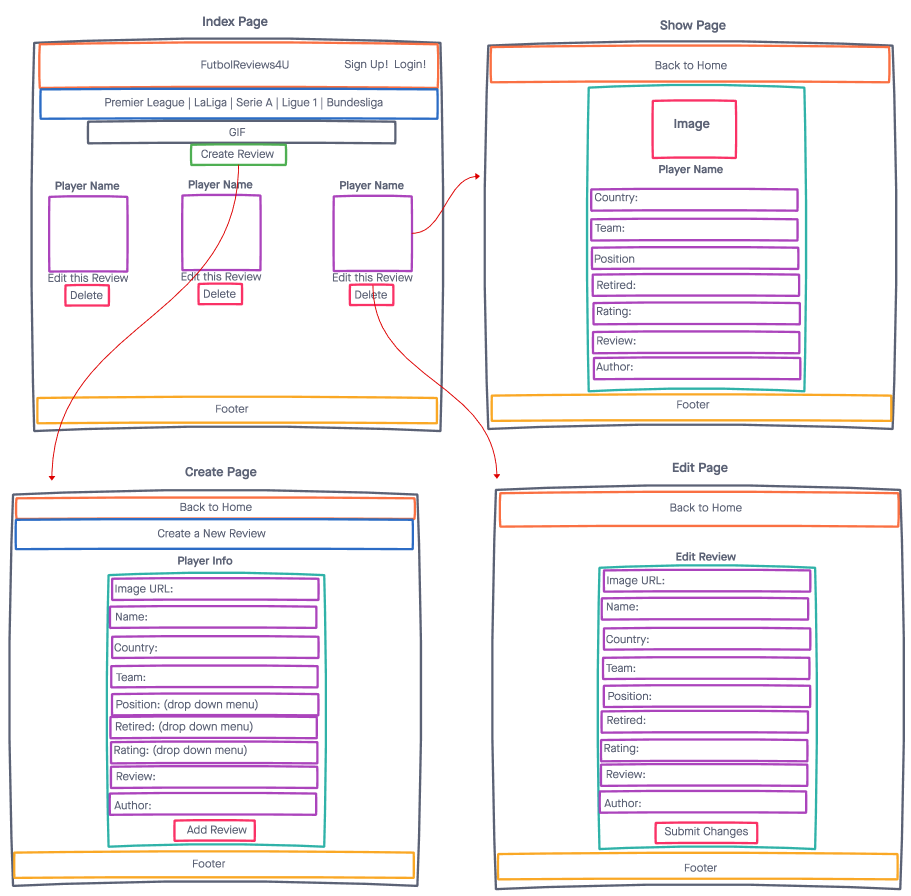
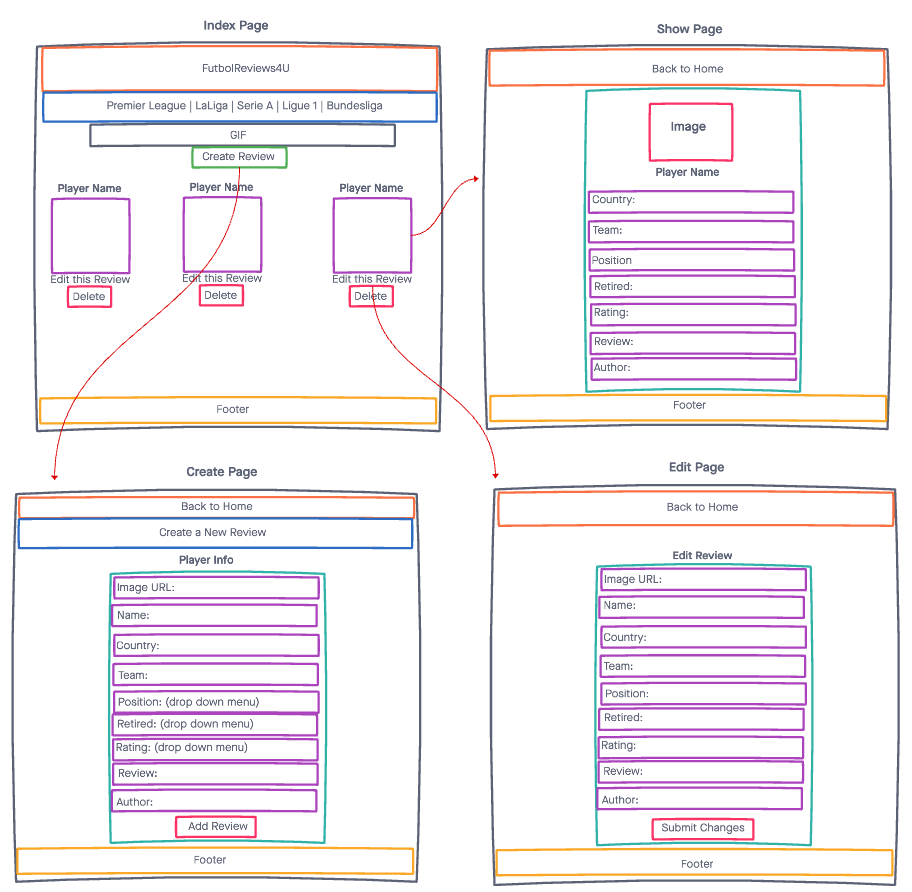
Final

diff --git a/public/style.css b/public/style.css
@@ -6,15 +6,13 @@
 * {
     cursor: url("https://i.imgur.com/lBJM4e1.png"), auto;
     background-color: #8ee4af;;
-    
+    box-sizing: border-box;
 }
-
 
 /* INDEX */
 #soccerballgif {
     width: 100px;
     height: auto;
-    box-sizing: border-box;
 }
 
 header {
@@ -101,14 +99,59 @@ nav li a:hover {
     background-color: #edf5e1 ;
 }
 
-/* SHOW */
-#show-main {
-    text-align: center;
-    padding-top: 20px;
-}
+
 
 /* CREATE */
 /* check other css file */
+.container-new {
+    width: 50vw;
+    height: 58vw;
+    margin: 50px auto;
+    display: flex;
+    border-radius: 10px;
+    box-shadow: 1px 1px 10px #ddd,
+                -1px -1px 10px #ddd,
+                1px -1px 10px #ddd,
+                -1px 1px 10px #ddd;
+    justify-content: center;
+    overflow-y: scroll;
+  }
+
+  fieldset {
+    border: 1px solid black;
+    border-radius: 5px;
+    padding: 20px;
+    margin: 20px 0;
+    text-align: center;
+  }
+
+  legend {
+    padding: 0px 10px;
+    font-family: sans-serif;
+    font-weight: 500;
+    color: #05386b;
+  }
+  label {
+    font-family: sans-serif;
+    font-weight: 200;
+    color: grey;
+    display: block;
+    padding-top: 10px;
+  }
+  
+  input {
+    width: 100%;
+    margin: 10px 0;
+    padding: 10px;
+    box-sizing: border-box;
+    border: 1px solid;
+    border-radius: 5px;
+  }
+
+#addreview:hover {
+    background-color: #05386b;
+    color:grey;
+}
 
 /* EDIT */
   #editbutton {
@@ -117,6 +160,28 @@ nav li a:hover {
     color: black;
 }
 
+
+
 #editbutton:hover {
     background-color: #05386b;
+}
+
+/* SHOW */
+#show-main {
+    /* text-align: center; */
+    margin-top: 20px;
+}
+
+#showbody {
+    display: flex;
+    flex-direction: column;
+    align-items: center;
+    justify-items: center
+}
+
+.footer {
+    display: flex;
+    align-content: flex-end;
+    justify-content: center;
+    position: relative;
 }
